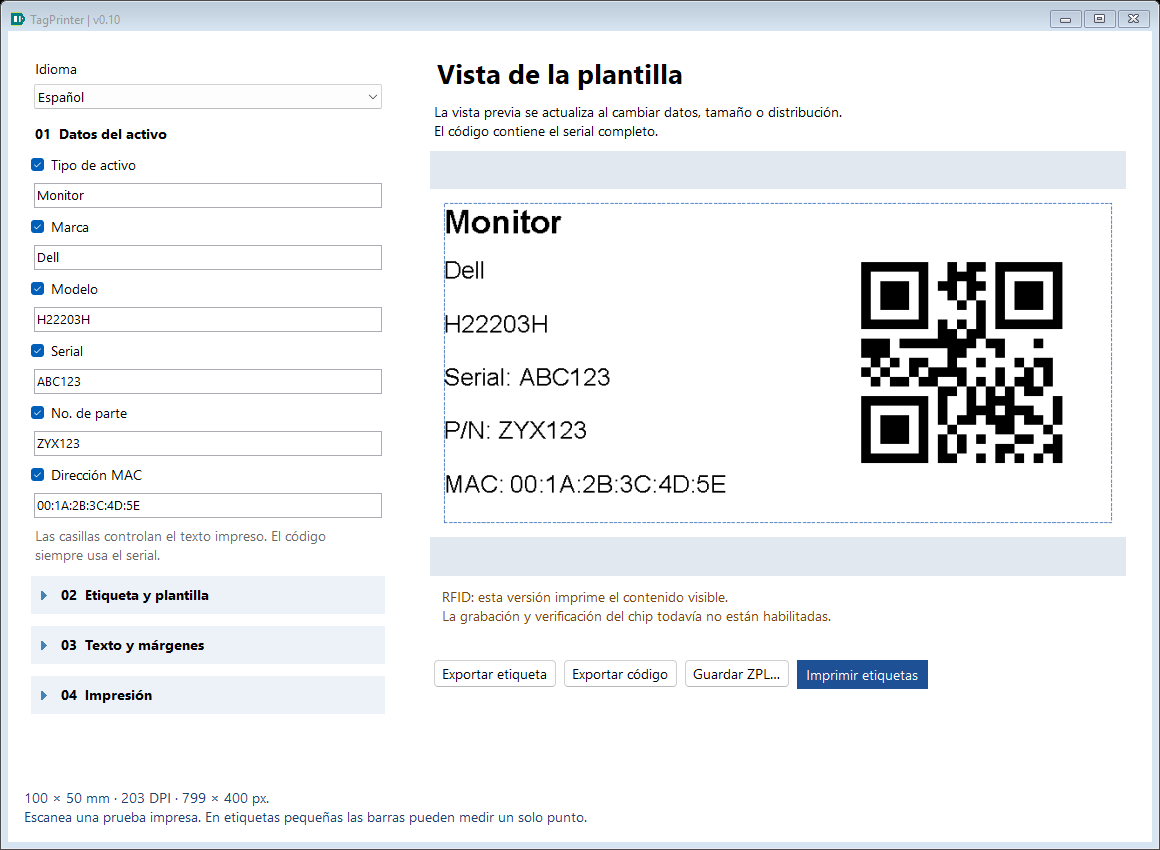
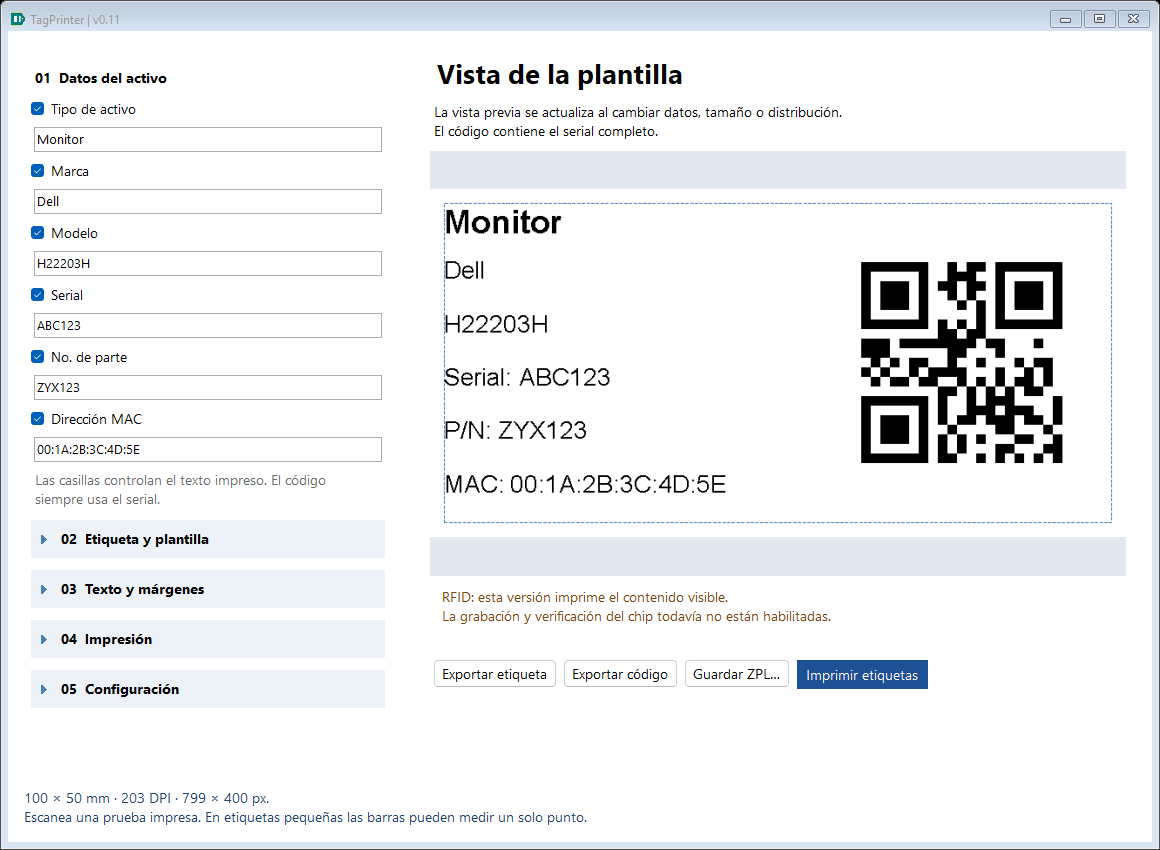
Move language into collapsed settings section

Changed region(s): [[0.031, 0.0612, 0.3103, 0.7035], [0.031, 0.7341, 0.1862, 0.7647], [0.031, 0.7953, 0.1552, 0.8259]]

diff --git a/src/TagPrinter/MainForm.cs b/src/TagPrinter/MainForm.cs
@@ -25,7 +25,7 @@ public class MainForm : Form
     readonly Label fontValue=new(){AutoSize=true,Padding=new Padding(6)};
     readonly NumericUpDown margin=Number(1,5,2), offsetX=Number(-5,5,0), offsetY=Number(-5,5,0);
     int fontPercent=100, effectiveFontPercent=100;
-    internal readonly CollapsibleSection templateSection, textSection, printingSection;
+    internal readonly CollapsibleSection templateSection, textSection, printingSection, settingsSection;
     bool ready, translating;
     static ComboBox Combo()=>new(){DropDownStyle=ComboBoxStyle.DropDownList};
     static NumericUpDown Number(decimal min,decimal max,decimal value)=>new(){Minimum=min,Maximum=max,Value=value,DecimalPlaces=0};
@@ -34,7 +34,7 @@ public class MainForm : Form
         config=configPath ?? Path.Combine(Environment.GetFolderPath(Environment.SpecialFolder.LocalApplicationData),"InventoryLabels","settings.json");
         appConfig=configuration ?? AppConfig.Load(Path.Combine(AppContext.BaseDirectory,"config.json"));
         Ui.Language=appConfig.Defaults.Language;
-        Text="TagPrinter | v0.10";
+        Text="TagPrinter | v0.11";
         using var iconStream=typeof(MainForm).Assembly.GetManifestResourceStream("TagPrinter.TagPrinter.ico");
         if(iconStream is not null)Icon=new Icon(iconStream); Width=1160; Height=850; MinimumSize=new Size(980,720);
         Font=new Font("Segoe UI",10); BackColor=Color.White; StartPosition=FormStartPosition.CenterScreen;
@@ -45,7 +45,7 @@ public class MainForm : Form
         var target=fields;
         void Heading(string text) { target.Controls.Add(new Label {Text=text,AutoSize=true,Font=new Font(Font,FontStyle.Bold),Margin=new Padding(0,14,0,6)}); }
         void Field(string label,Control control) { target.Controls.Add(new Label{Text=label,AutoSize=true,Margin=new Padding(0,5,0,3)}); control.Dock=DockStyle.Top; target.Controls.Add(control); }
-        language.Items.AddRange(["English","Español"]);language.SelectedIndex=0;Field(Ui.T("Idioma","Language"),language);
+        language.Items.AddRange(["English","Español"]);language.SelectedIndex=0;
         Heading(Ui.T("01  Datos del activo","01  Asset details"));
         void TextField(CheckBox check,string caption,TextBox input)
         {
@@ -94,6 +94,9 @@ public class MainForm : Form
         mode.Items.AddRange([Ui.T("Controlador de Windows (general)","Windows driver (general)"),Ui.T("ZPL directo (solo equipos compatibles)","Direct ZPL (compatible printers only)")]); Field(Ui.T("Método de impresión","Print method"),mode);
         dpi.Items.AddRange(["203","300"]);Field(Ui.T("Resolución de la impresora · DPI","Printer resolution · DPI"),dpi); Field(Ui.T("Copias","Copies"),copies);
         var options=new Button{Text=Ui.T("Preferencias del controlador…","Driver preferences…"),AutoSize=true};options.Click+=(_,_)=>Guard(Preferences);target.Controls.Add(options);
+        settingsSection=new CollapsibleSection(Ui.T("05  Configuración","05  Settings"));
+        fields.Controls.Add(settingsSection);target=settingsSection.Body;
+        Field(Ui.T("Idioma","Language"),language);
         var right=new TableLayoutPanel{Dock=DockStyle.Fill,ColumnCount=1,RowCount=5,Padding=new Padding(16,0,0,0)};
         right.RowStyles.Add(new RowStyle(SizeType.Absolute,48));right.RowStyles.Add(new RowStyle(SizeType.Absolute,46));right.RowStyles.Add(new RowStyle(SizeType.Percent,100));right.RowStyles.Add(new RowStyle(SizeType.Absolute,74));right.RowStyles.Add(new RowStyle(SizeType.Absolute,100));
         right.Controls.Add(new Label{Text=Ui.T("Vista de la plantilla","Template preview"),Font=new Font("Segoe UI",20,FontStyle.Bold),AutoSize=true});

diff --git a/src/TagPrinter/SelfTest.cs b/src/TagPrinter/SelfTest.cs
@@ -35,12 +35,12 @@ public static class SelfTest
         {
             if(!form.CaptureWork().ShowBrand || !form.CaptureWork().ShowModel || !form.CaptureWork().ShowSerialText || form.CaptureWork().Layout!=3 || form.CaptureWork().Language!="en")throw new Exception("Defaults mismatch");
             form.Show();Application.DoEvents();
-            if(form.templateSection.Expanded || form.textSection.Expanded || form.printingSection.Expanded)throw new Exception("Sections must start collapsed");
+            if(form.templateSection.Expanded || form.textSection.Expanded || form.printingSection.Expanded || form.settingsSection.Expanded)throw new Exception("Sections must start collapsed");
             var before=form.CaptureWork();
-            form.templateSection.Toggle();form.textSection.Toggle();form.printingSection.Toggle();Application.DoEvents();
-            if(!form.templateSection.Expanded || !form.textSection.Expanded || !form.printingSection.Expanded || !form.templateSection.Body.Visible || !form.textSection.Body.Visible || !form.printingSection.Body.Visible)throw new Exception("Sections did not expand");
-            form.templateSection.Toggle();form.textSection.Toggle();form.printingSection.Toggle();Application.DoEvents();
-            if(form.templateSection.Expanded || form.textSection.Expanded || form.printingSection.Expanded || form.CaptureWork()!=before)throw new Exception("Collapsing changed the work");
+            form.templateSection.Toggle();form.textSection.Toggle();form.printingSection.Toggle();form.settingsSection.Toggle();Application.DoEvents();
+            if(!form.templateSection.Expanded || !form.textSection.Expanded || !form.printingSection.Expanded || !form.settingsSection.Expanded || !form.templateSection.Body.Visible || !form.textSection.Body.Visible || !form.printingSection.Body.Visible || !form.settingsSection.Body.Visible)throw new Exception("Sections did not expand");
+            form.templateSection.Toggle();form.textSection.Toggle();form.printingSection.Toggle();form.settingsSection.Toggle();Application.DoEvents();
+            if(form.templateSection.Expanded || form.textSection.Expanded || form.printingSection.Expanded || form.settingsSection.Expanded || form.CaptureWork()!=before)throw new Exception("Collapsing changed the work");
             form.ChangeFont(-10);
             if(form.CaptureWork().AutoFont || form.CaptureWork().FontPercent!=90)throw new Exception("Font buttons failed");
             form.Restore(new WorkState());
@@ -53,7 +53,7 @@ public static class SelfTest
         }
         using(var reopened=new MainForm(freshPath,AppConfig.CreateDefault()))
         {
-            if(reopened.templateSection.Expanded || reopened.textSection.Expanded || reopened.printingSection.Expanded)throw new Exception("Reopened sections must start collapsed");
+            if(reopened.templateSection.Expanded || reopened.textSection.Expanded || reopened.printingSection.Expanded || reopened.settingsSection.Expanded)throw new Exception("Reopened sections must start collapsed");
             var restored=reopened.CaptureWork();
             if(restored.Serial!="ABC12345644" || restored.Language!="es" || restored.Layout!=3 || restored.Copies!=4 || restored.AutoFont || restored.FontPercent!=70 || restored.MarginMm!=3 || restored.OffsetXmm!=.5m || restored.OffsetYmm!=-.5m || restored.ShowBrand || !restored.ShowModel || restored.ShowSerialText || restored.PartNumber!="PN-DEMO-001" || restored.MacAddress!="00:11:22:33:44:55" || restored.ShowPartNumber || restored.ShowMacAddress || restored.AssetType!="Laptop" || restored.ShowAssetType)throw new Exception("UI restore failed");
         }

diff --git a/src/TagPrinter/Ui.cs b/src/TagPrinter/Ui.cs
@@ -12,6 +12,7 @@ public static class Ui
         ("Desplazamiento de impresión…","Print offsets…"),
         ("04  Impresión","04  Printing"),
         ("Idioma","Language"),
+        ("05  Configuración","05  Settings"),
         ("No. de parte","Part number"),
         ("Dirección MAC","MAC address"),
         ("Las casillas controlan el texto impreso. El código siempre usa el serial.","Checkboxes control printed text. The code always uses the serial."),

diff --git a/docs/USER_GUIDE.md b/docs/USER_GUIDE.md
@@ -1,4 +1,4 @@
-# Guía de uso — TagPrinter 0.10
+# Guía de uso — TagPrinter 0.11
 
 ## Abrir
 
@@ -12,13 +12,14 @@ El serial es obligatorio: alimenta el QR o Code 128 incluso si ocultas su texto.
 
 Los textos visibles se redistribuyen. Si desmarcas todos, queda únicamente el código. Seis campos pueden no caber en etiquetas pequeñas; usa un tamaño mayor o desmarca los que no necesitas. No se recortan textos silenciosamente.
 
-## Secciones 02, 03 y 04
+## Secciones 02, 03, 04 y 05
 
 Comienzan contraídas. Pulsa el encabezado o usa Enter/Espacio con el foco en él para expandir. Contraerlas no cambia sus valores.
 
 - 02: tamaño de etiqueta (ancho × alto), medidas personalizadas, distribución y QR/Code 128. Los tamaños vienen de config.json.
 - 03: ajuste automático de texto o botones −/+ (manual, 50–200 %), margen 1–5 mm (inicial 2 mm), guía azul de vista previa y desplazamientos.
 - 04: impresora instalada, método Windows/ZPL, 203/300 DPI y copias.
+- 05 Configuración / Settings: idioma English / Español. La selección se aplica al instante y se conserva al reabrir.
 
 La fuente se ajusta conjuntamente sin modificar el código. La guía no se imprime ni se exporta. Desplazamientos positivos mueven a la derecha/abajo; se bloquea la salida del área disponible.
 
@@ -45,3 +46,5 @@ Los antiguos Title / ShowTitle migran a Brand / ShowBrand sin borrar valores. Re
 [config.json: tamaños y valores iniciales](CONFIGURATION.md). Edita el archivo junto al EXE y reinicia. La aplicación no lo reescribe al guardar el trabajo.
 
 Tipo de activo / Asset type aparece antes de Marca y tiene checkbox y autoguardado. Ejemplo: Monitor / Dell / H22203H / ABC123 / ZYX123 / 00:1A:2B:3C:4D:5E. El código representa ABC123. En trabajos existentes el nuevo campo empieza vacío para no inventar el tipo; completa su valor cuando corresponda.
+
+El selector de idioma está en **05 Configuración / Settings**, contraída por defecto junto con 02, 03 y 04. Abre su encabezado para cambiarlo. La zona principal comienza con los datos del activo.

diff --git a/docs/STATUS.md b/docs/STATUS.md
@@ -1,6 +1,6 @@
 # Estado
 
-Versión 0.10.0. Proyecto: C:\Projects\TagPrinter. Repositorio: https://github.com/dafermen/TagPrinter.
+Versión 0.11.0. Proyecto: C:\Projects\TagPrinter. Repositorio: https://github.com/dafermen/TagPrinter.
 
 Completado: seis campos con visibilidad individual, Brand en lugar de Title, migración de trabajos anteriores, configuración JSON de tamaños/defaults, imágenes y documentación bilingüe, impresión/exportación y portable autocontenido.
 
@@ -9,3 +9,5 @@ Los valores de ejemplo de las capturas son sintéticos. El código utiliza siemp
 Pendiente: validar hardware real y definir/implementar grabación/verificación RFID. No hay importación de inventario ni historial completo.
 
 Tipo de activo / Asset type aparece antes de Marca y tiene checkbox y autoguardado. Ejemplo: Monitor / Dell / H22203H / ABC123 / ZYX123 / 00:1A:2B:3C:4D:5E. El código representa ABC123. En trabajos existentes el nuevo campo empieza vacío para no inventar el tipo; completa su valor cuando corresponda.
+
+El selector de idioma está en **05 Configuración / Settings**, contraída por defecto junto con 02, 03 y 04. Abre su encabezado para cambiarlo. La zona principal comienza con los datos del activo.

diff --git a/README.md b/README.md
@@ -50,7 +50,7 @@ powershell -ExecutionPolicy Bypass -File scripts/Test.ps1
 powershell -ExecutionPolicy Bypass -File scripts/Publish.ps1
 ```
 
-The publish script verifies the self-contained EXE and creates `artifacts/TagPrinter-v0.10-PORTABLE-Windows-x64.zip`. Generated output is not tracked in Git.
+The publish script verifies the self-contained EXE and creates `artifacts/TagPrinter-v0.11-PORTABLE-Windows-x64.zip`. Generated output is not tracked in Git.
 
 ## Documentation
 
@@ -74,3 +74,5 @@ ZXing.Net 0.16.11 — Michael Jahn and contributors — [Apache-2.0](https://www
 .NET runtime — Microsoft and contributors — [license and notices](https://github.com/dotnet/runtime/blob/main/LICENSE.TXT).
 
 Tipo de activo / Asset type aparece antes de Marca y tiene checkbox y autoguardado. Ejemplo: Monitor / Dell / H22203H / ABC123 / ZYX123 / 00:1A:2B:3C:4D:5E. El código representa ABC123. En trabajos existentes el nuevo campo empieza vacío para no inventar el tipo; completa su valor cuando corresponda.
+
+El selector de idioma está en **05 Configuración / Settings**, contraída por defecto junto con 02, 03 y 04. Abre su encabezado para cambiarlo. La zona principal comienza con los datos del activo.

diff --git a/docs/VALIDATION.md b/docs/VALIDATION.md
@@ -39,3 +39,7 @@ Ocho combinaciones de P/N/MAC y QR/Code 128 decodificadas. Pruebas de persistenc
 ## v0.10
 
 Ocho combinaciones de Tipo visible/oculto, 203/300 DPI y QR/Code 128; los seis campos del ejemplo se renderizan y se recupera siempre ABC123 del código. Comparación de imágenes con Tipo oculto, persistencia del valor/checkbox, carga de trabajos anteriores sin inventar un tipo y capturas en ambos idiomas.
+
+## v0.11
+
+La sección 05 está incluida en las comprobaciones de inicio/reapertura contraídos, expansión/contracción y conservación del trabajo. Se conserva la prueba de recuperación del idioma y las capturas en inglés y español.

diff --git a/docs/CHANGELOG.md b/docs/CHANGELOG.md
@@ -1,5 +1,9 @@
 # Cambios
 
+## 0.11.0
+
+Nueva sección 05 Configuración / Settings, contraída en cada apertura. Idioma trasladado desde la cabecera a esa sección, conservando cambio instantáneo y persistencia. Capturas y guía actualizadas para destacar los datos a imprimir.
+
 ## 0.10.0
 
 Tipo de activo / Asset type antes de Marca, checkbox independiente, autoguardado y recuperación. Seis campos en la etiqueta. Tipo como encabezado; marca conserva el encabezado si se oculta o vacía Tipo. Ejemplo y capturas actualizados. Compatibilidad: trabajos anteriores mantienen sus valores y el nuevo campo vacío.
